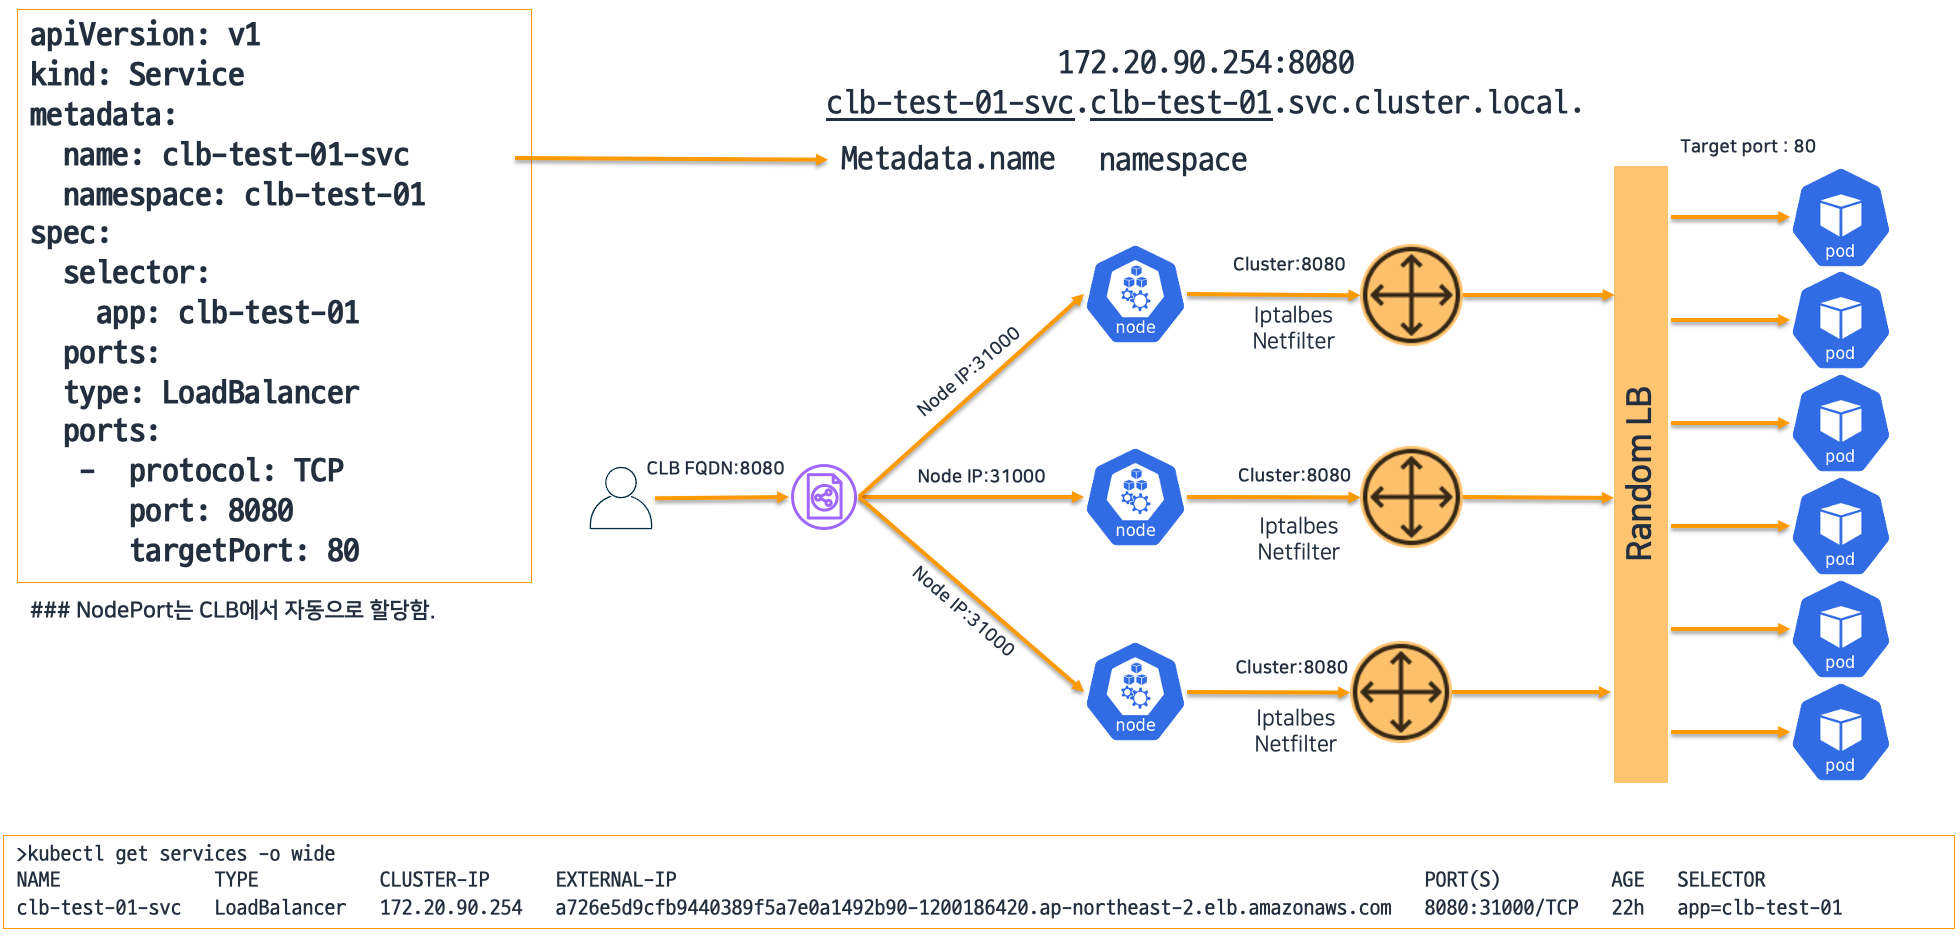
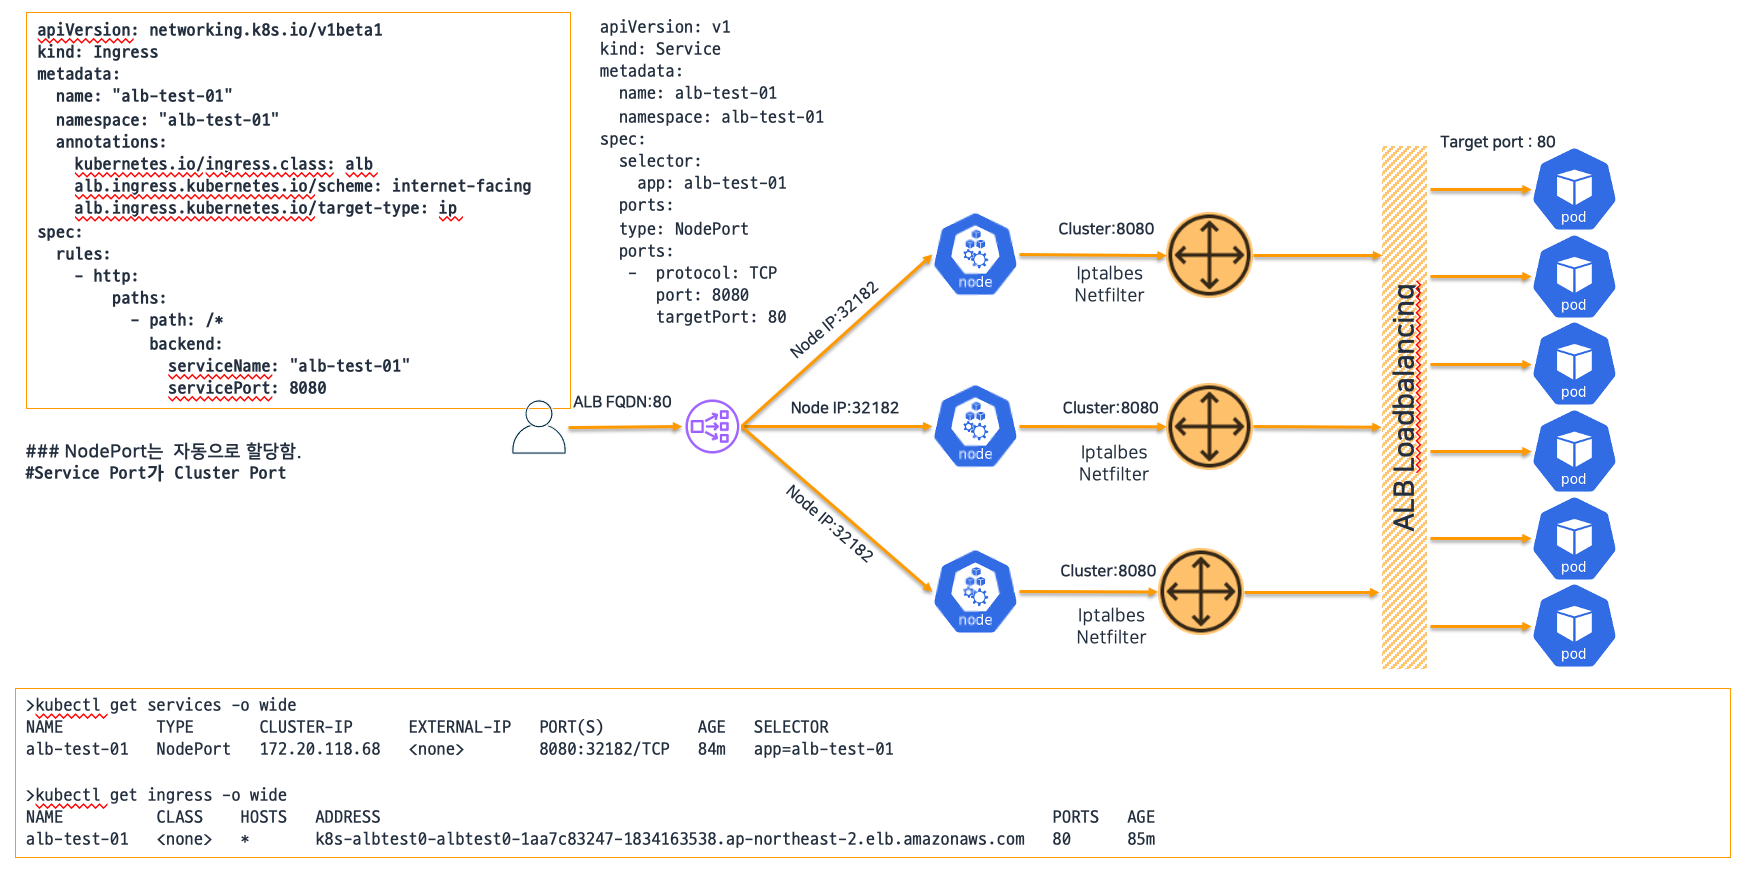
GitBook: [#625] 20211020

diff --git a/eks-1/alb-ingress.md b/eks-1/alb-ingress.md
@@ -215,7 +215,7 @@ kubectl apply -f v2_1_3_full.yaml
 
 ## ALB Ingress 시험
 
-10.ALB Ingress를 시험하기 위해 아래와 같이 namespace와  pod,service를 배포합니다.
+ALB Ingress를 시험하기 위해 아래와 같이 namespace와  pod,service를 배포합니다.
 
 ```
 ## alb-test-01 namespace를 생성하고, pod, service를 배포 
@@ -225,6 +225,78 @@ kubectl -n alb-test-01 apply -f ~/environment/myeks/network-test/alb-test-01-ing
 kubectl -n alb-test-01 apply -f ~/environment/myeks/network-test/alb-test-01-service.yaml
 
 ```
+
+아래와 같은 명령으로 결과를 확인 할 수 있습니다.
+
+```
+kubectl -n alb-test-01 get pod -o wide
+kubectl -n alb-test-01 get service -o wide 
+kubectl -n alb-test-01 get ingress -o wide 
+
+```
+
+dk아래와 같은 결과를 확인하고 ingress LB의 외부 A Record를 확인합니다. 해당 A Record를 Cloud9 IDE Terminal에서  Curl을 통해 접속하거나 브라우저에서 접속해 봅니다
+
+```
+$ kubectl -n alb-test-01 get pod -o wide
+NAME                          READY   STATUS    RESTARTS   AGE     IP              NODE                                               NOMINATED NODE   READINESS GATES
+alb-test-01-ffd85d89f-5s66x   1/1     Running   0          6m15s   10.11.92.148    ip-10-11-94-22.ap-northeast-2.compute.internal     <none>           <none>
+alb-test-01-ffd85d89f-sl5bd   1/1     Running   0          6m14s   10.11.88.200    ip-10-11-94-22.ap-northeast-2.compute.internal     <none>           <none>
+alb-test-01-ffd85d89f-td4tv   1/1     Running   0          6m14s   10.11.107.214   ip-10-11-108-153.ap-northeast-2.compute.internal   <none>           <none>
+$ kubectl -n alb-test-01 get service -o wide
+NAME          TYPE       CLUSTER-IP       EXTERNAL-IP   PORT(S)          AGE   SELECTOR
+alb-test-01   NodePort   172.20.121.174   <none>        8080:30299/TCP   12m   app=alb-test-01
+$ kubectl -n alb-test-01 get ingress -o wide
+NAME          CLASS    HOSTS   ADDRESS                                                                      PORTS   AGE
+alb-test-01   <none>   *       k8s-albtest0-albtest0-1aa7c83247-45114489.ap-northeast-2.elb.amazonaws.com   80      13m
+```
+
+아래와 같이 배포된 pod에 접속을 편리하게 하기 위해 Cloud9 IDE terminal Shell에 등록 합니다.
+
+```
+echo "export AlbTestPod03=alb-test-01-ffd85d89f-td4tv" | tee -a ~/.bash_profile
+echo "export AlbTestPod02=alb-test-01-ffd85d89f-5s66x" | tee -a ~/.bash_profile
+echo "export AlbTestPod01=alb-test-01-ffd85d89f-sl5bd" | tee -a ~/.bash_profile
+source ~/.bash_profile
+
+```
+
+AlbTestPod01에 접속해서 아래와 같이 확인해 봅니다.
+
+```
+kubectl -n alb-test-01 exec -it $ClbTestPod01 -- /bin/sh
+tcpdump -s 0 -A 'tcp[((tcp[12:1] & 0xf0) >> 2):4] = 0x47455420'
+
+```
+
+Pod에서 TCPDump로 확인하면 정상적으로 Pakcet이 덤프되고 X-Forwarded를 통해 Source IP를 확인할 수 있습니다
+
+```
+tcpdump -s 0 -A 'tcp[((tcp[12:1] & 0xf0) >> 2):4] = 0x47455420'
+
+11:23:59.800248 IP ip-10-11-29-154.ap-northeast-2.compute.internal.62078 > alb-test-01-ffd85d89f-sl5bd.80: Flags [P.], seq 638:1276, ack 180, win 110, options [nop,nop,TS val 355718059 ecr 1502835583], length 638: HTTP: GET / HTTP/1.1
+E...j.@.....
+...
+.X..~.Pj>...x{....nY......
+.3..Y.s.GET / HTTP/1.1
+X-Forwarded-For: 122.40.8.88
+X-Forwarded-Proto: http
+X-Forwarded-Port: 80
+Host: k8s-albtest0-albtest0-1aa7c83247-45114489.ap-northeast-2.elb.amazonaws.com
+X-Amzn-Trace-Id: Root=1-616ffc4f-26f121442cec9b1b3ac7fdbb
+User-Agent: Mozilla/5.0 (Macintosh; Intel Mac OS X 10.15; rv:92.0) Gecko/20100101 Firefox/92.0
+Accept: text/html,application/xhtml+xml,application/xml;q=0.9,image/webp,*/*;q=0.8
+Accept-Language: ko-KR,ko;q=0.8,en-US;q=0.5,en;q=0.3
+Accept-Encoding: gzip, deflate
+Upgrade-Insecure-Requests: 1
+If-Modified-Since: Wed, 20 Oct 2021 11:07:33 GMT
+If-None-Match: "616ff875-53"
+Cache-Control: max-age=0
+```
+
+아래와 같이 ALB Ingress가 구성되었습니다.&#x20;
+
+![](<../.gitbook/assets/image (226).png>)
 
 ## ALB Ingress Controller 기반 Application 배포
 
